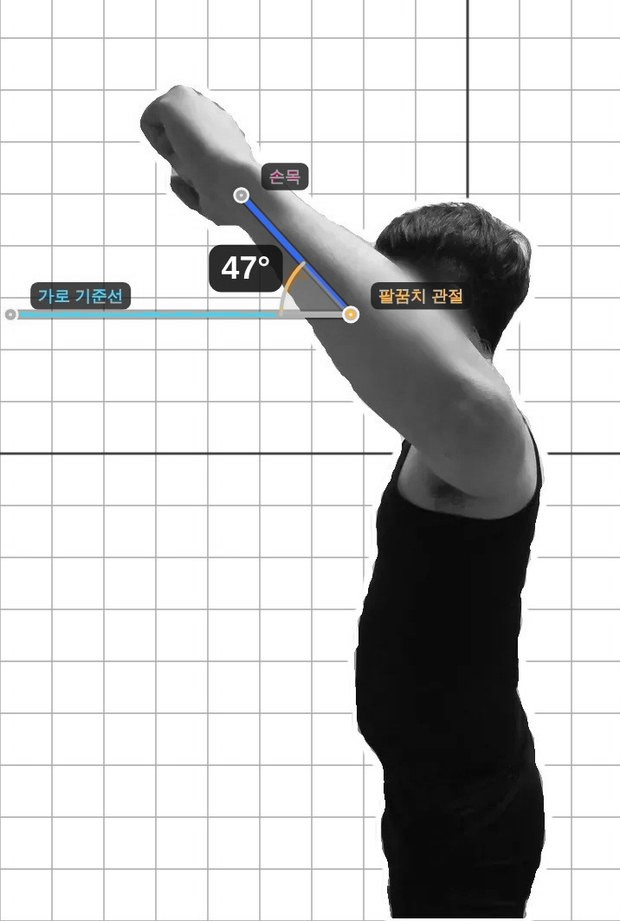
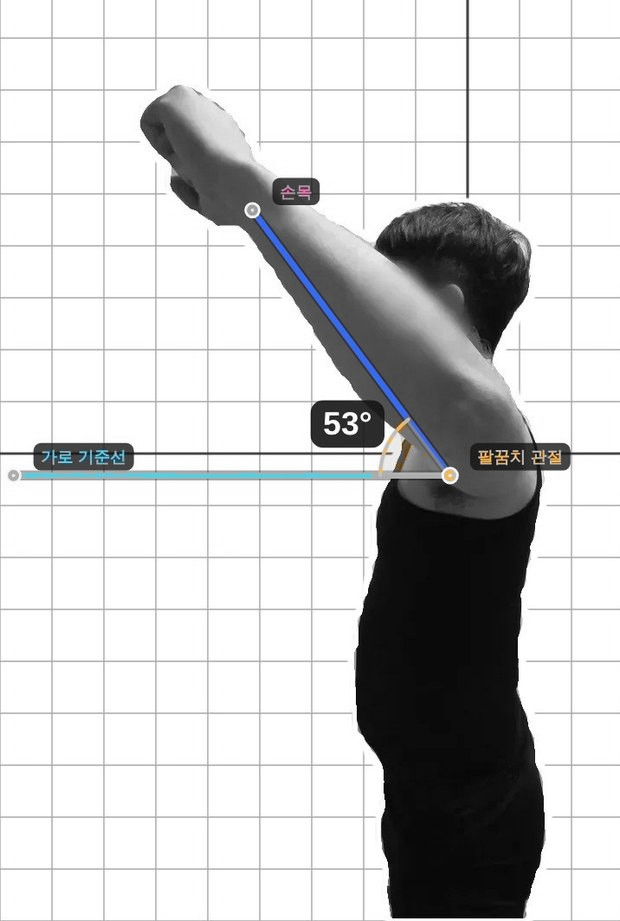
v220 인식 규칙 변경: 어깨 외·내회전(팔꿈치·손목), 고관절 외·내회전(윤곽으로 든 다리 찾기), 발목 배측·저측(비골·발바닥·발끝) · 측정가이드 사진 갱신
Claude-Session: https://claude.ai/code/session_01SyvR6sAvATGj34E46qdu2f

Changed region(s): [[0.0, 0.152, 0.9194, 0.5472]]

diff --git a/index.html b/index.html
@@ -8549,7 +8549,7 @@
     q.textContent = !ok ? "자동 인식 실패 · 두 점을 직접 맞춰주세요" : lv === "good" ? "✓ 자동 인식 정확도 높음 (" + Math.round(romS.q * 100) + "%) · 점 위치만 확인하세요" : lv === "mid" ? "자동 인식 정확도 보통 (" + Math.round(romS.q * 100) + "%) · 점 위치를 확인해 주세요" : "관절이 가려져 정확도 낮음 (" + Math.round(romS.q * 100) + "%) · 점을 직접 맞춰주세요";
     if(ok && romS.roll != null && Math.abs(romS.roll) >= 0.3) q.textContent += " · 폰 기울기 " + romS.roll.toFixed(1) + "° 자동 보정";
     if(romS.img && !romS.cut && !romS.maskP) romS.maskP = romMakeCut();
-    else if(romS.mask && ok && romJoint().k !== "scol"){ try{ romRefine(romS.mask); }catch(e){} romDraw(); }
+    else if(romS.mask && (ok || romLimbJoint()) && romJoint().k !== "scol"){ try{ romRefine(romS.mask); }catch(e){ console.warn("[refine]", e); } romDraw(); }
     if(msg) toast(msg);
   }
   $("btnRomAuto").addEventListener("click", romAuto);
@@ -9147,15 +9147,22 @@
       romS.mask = good ? m : null;
       try{ romS.cut = romCutBuild(img, m, romS.L); }catch(e){ console.warn("[cut]", e); romS.cut = null; }
       romS.cutDone = true;
-      if(good && romS.autoPts && romJoint().k !== "scol"){ try{ romRefine(m); }catch(e){ console.warn("[refine]", e); } }
+      if(good && (romS.autoPts || (romLimbJoint() && !romS.touched)) && romJoint().k !== "scol"){ try{ romRefine(m); }catch(e){ console.warn("[refine]", e); } }
       if(romS.pts) romDraw();
       return m;
     }).catch(function(){ romS.cutDone = true; return null; });
   }
   /* ===== v88 자동 측정점 정밀 보정 (인물 윤곽 이용) =====
      허리: 장골능·등 최고점을 실제 등 윤곽 위로 / 목: 목 앞·뒤 윤곽의 정중앙 / 정수리: 머리 윤곽 끝 / 손가락 끝: 손 윤곽 끝 */
+  function romLimbJoint(){ var J = romJoint(), mv = romMove(); return !!mv && ((J.k === "hip" && (mv.k === "er" || mv.k === "ir")) || J.k === "ankle"); }   // v220 윤곽으로 찾는 항목
   function romRefine(m){
-    var P = romS.pts, L = romS.L, W = romS.w, H = romS.h; if(!P || !L) return;
+    var P = romS.pts, L = romS.L, W = romS.w, H = romS.h; if(!P) return;
+    if(!L){   // v220 관절 인식이 실패해도 고관절 회전·발목은 윤곽만으로
+      if(!romLimbJoint()) return;
+      var lf0 = romLimbFix(m, romPts(), null, rom.side);
+      if(lf0){ lf0.forEach(function(q, i){ if(q) P[i] = q; }); if(P.length > 2 && !romIsLm(romPts()[2]) && !romS.refCustom) P[2] = romSynthA(romPts()[2], P[0], P[1], null, W, H, romS.roll); romS.autoPts = true; romS.autoOk = true; }
+      return;
+    }
     var pn = romPts(), side = rom.side;
     var inside = function(p){ if(p.x < 0 || p.y < 0 || p.x >= W || p.y >= H) return false; return m.data[Math.min(m.h - 1, Math.floor(p.y * m.h / H)) * m.w + Math.min(m.w - 1, Math.floor(p.x * m.w / W))] > 0.45; };
     var step = Math.max(W, H) / 400;
@@ -9242,8 +9249,122 @@
       var wr = romGet("wrist", L, side), fg = romGet("finger", L, side);
       if(wr && fg){ var u2 = nrm({ x: fg.x - wr.x, y: fg.y - wr.y }), tip = edge(fg, u2, body * 0.35); if(tip) setPt(1, tip); }
     }
+    // v220 관리자 피드백(정선미 1차) 반영: 누워서 찍는 고관절 회전·발목, 팔꿈치 90° 어깨 회전은 관절 인식이 자주 엉뚱한 곳을 잡음 → 사람 윤곽으로 다시 찾기
+    var lf = romLimbFix(m, pn, L, side);
+    if(lf) lf.forEach(function(q, i){ if(q) setPt(i, q); });
     if(changed && romS.autoPts) romLearnAdj(moved);   // v203 윤곽으로 새로 놓인 점에도 학습 보정
     if(changed && pn.length > 2 && !romIsLm(pn[2]) && !romS.refCustom) P[2] = romSynthA(pn[2], P[0], P[1], L, W, H, romS.roll);   // v190 거북목(점 2개)은 기준점 없음
+  }
+  /* ===== v220 윤곽 기반 측정점 (관리자 기준) =====
+     ① 고관절 외·내회전(엎드려 무릎 90°): 위로 든 아래다리를 윤곽에서 직접 찾음 (좌·우 다리를 헷갈리지 않게)
+        - 발목 = 발과 다리가 이어지는 곳(아래다리에서 가장 가는 곳)의 중앙 · 무릎 = 아래다리 축을 따라 내려간 끝(슬개골 정중앙)
+     ② 발목 배측·저측굴곡(누워서 옆에서): 다리 윤곽을 발끝 쪽부터 따라감
+        - 비골 = 무릎(다리 윗선의 가장 높은 곳)에서 발 쪽으로 조금 · 다리 뒤쪽(아래쪽)
+        - 발바닥 = 비골 → 외측 복사뼈 후면 직선을 발 쪽으로 늘려 발바닥 윤곽과 만나는 곳
+        - 발끝 = 발바닥을 따라 새끼발가락 앞 MTP 관절 끝
+     ③ 어깨 외·내회전: 팔꿈치 = 아래팔 축을 따라 몸 쪽 끝(팔꿈치)까지 · 손목 = 아래팔과 손바닥 사이 */
+  function romLimbFix(m, pn, L, side){
+    var J = romJoint(), mv = romMove(); if(!m || !mv) return null;
+    var MW = m.w, MH = m.h, W = romS.w, H = romS.h, sx = W / MW, sy = H / MH;
+    var at = function(x, y){ x = Math.round(x); y = Math.round(y); return x >= 0 && y >= 0 && x < MW && y < MH && m.data[y * MW + x] > 0.45; };
+    var runs = function(y){ var out = [], x = 0; while(x < MW){ if(at(x, y)){ var a = x; while(x < MW && at(x, y)) x++; out.push({ a: a, b: x - 1, c: (a + x - 1) / 2, w: x - a }); } else x++; } return out; };
+    var cruns = function(x){ var out = [], y = 0; while(y < MH){ if(at(x, y)){ var a = y; while(y < MH && at(x, y)) y++; out.push({ a: a, b: y - 1, c: (a + y - 1) / 2, w: y - a }); } else y++; } return out; };
+    var img = function(p){ return { x: p.x * sx, y: p.y * sy }; };
+    var march = function(p, d, maxL){ var q = null; for(var t = 0; t < maxL; t += 0.5){ var x = p.x + d.x * t, y = p.y + d.y * t; if(!at(x, y)) return q; q = { x: x, y: y }; } return q; };
+    var nrm = function(v){ var l = Math.hypot(v.x, v.y) || 1; return { x: v.x / l, y: v.y / l }; };
+    // ① 고관절 외·내회전
+    if(J.k === "hip" && (mv.k === "er" || mv.k === "ir")){
+      var top = -1; for(var y = 0; y < MH && top < 0; y++){ if(runs(y).some(function(r){ return r.w < MW * 0.25; })) top = y; }
+      if(top < 0) return null;
+      var r0 = runs(top).filter(function(r){ return r.w < MW * 0.25; })[0], rows = [], cx = r0.c, pw = r0.w;
+      for(var yy = top; yy < MH; yy++){
+        var rr = runs(yy), best = null, bd = 1e9;
+        rr.forEach(function(r){ var d = Math.abs(r.c - cx); if(r.a - 2 <= cx + pw * 0.6 && r.b + 2 >= cx - pw * 0.6 && d < bd){ bd = d; best = r; } });
+        if(!best || best.w > MW * 0.3) break;
+        rows.push({ y: yy, c: best.c, w: best.w }); cx = best.c; pw = Math.max(best.w, 4);
+      }
+      if(rows.length < MH * 0.12) return null;
+      // 아래다리 축 = 위에서 15~70% 구간 중심선 · 축을 따라 내려가며 '축에 수직인 폭'을 잼 (다리가 기울어도 정확)
+      var n = rows.length, seg = rows.slice(Math.round(n * 0.15), Math.max(Math.round(n * 0.15) + 3, Math.round(n * 0.7)));
+      var my = seg.reduce(function(t, r){ return t + r.y; }, 0) / seg.length, mc = seg.reduce(function(t, r){ return t + r.c; }, 0) / seg.length, num = 0, den = 0;
+      seg.forEach(function(r){ num += (r.y - my) * (r.c - mc); den += (r.y - my) * (r.y - my); });
+      var u = nrm({ x: den ? num / den : 0, y: 1 }), nv = { x: -u.y, y: u.x }, prof = [], c = { x: rows[0].c, y: rows[0].y };
+      for(var k = 0; k < MH * 0.75; k++){
+        var pp = k ? { x: c.x + u.x * 2, y: c.y + u.y * 2 } : c;
+        var e1 = march(pp, nv, MW * 0.3), e2 = march(pp, { x: -nv.x, y: -nv.y }, MW * 0.3);
+        if(!e1 || !e2){ if(k > 3) break; c = pp; continue; }
+        var wv = Math.hypot(e1.x - e2.x, e1.y - e2.y), mid = { x: (e1.x + e2.x) / 2, y: (e1.y + e2.y) / 2 };
+        if(prof.length > 10){ var mxw = 0; for(var z = 0; z < Math.max(1, prof.length >> 1); z++) mxw = Math.max(mxw, prof[z].w); if(wv > mxw * 2.5) break; }
+        prof.push({ p: mid, w: wv }); c = mid;
+      }
+      var m2 = prof.length; if(m2 < 12) return null;
+      var lo = Math.max(1, Math.round(m2 * 0.08)), hi2 = Math.max(lo + 1, Math.round(m2 * 0.45)), ai = lo;
+      for(var i = lo; i < Math.min(hi2, m2); i++) if(prof[i].w < prof[ai].w) ai = i;   // 발목 = 발과 다리 사이 가장 가는 곳
+      var A0 = prof[ai].p, ws = prof.slice(ai, ai + Math.max(5, Math.round(m2 / 3))).map(function(q){ return q.w; }).sort(function(a, b){ return a - b; }), cw = ws[ws.length >> 1] || 6;
+      var kEdge = march(A0, u, MH * 1.2); if(!kEdge) return null;
+      var K = { x: kEdge.x - u.x * cw * 0.3, y: kEdge.y - u.y * cw * 0.3 };   // 무릎 = 아래다리 축 끝에서 조금 안쪽 (슬개골 정중앙)
+      if(Math.hypot(K.x - A0.x, K.y - A0.y) < MH * 0.08) return null;
+      return [img(K), img(A0)];
+    }
+    // ② 발목 배측·저측굴곡
+    if(J.k === "ankle" && pn[0] === "sole"){
+      var hp = [L && L[23], L && L[24]].filter(function(q){ return q && q.v > 0.5; });
+      var colsAll = []; for(var x = 0; x < MW; x++){ if(cruns(x).length) colsAll.push(x); }
+      if(colsAll.length < MW * 0.2) return null;
+      var mx0 = colsAll[0], mx1 = colsAll[colsAll.length - 1], midX = (mx0 + mx1) / 2;
+      var dirF = hp.length ? (hp.reduce(function(t, q){ return t + q.x; }, 0) / hp.length / sx > midX ? -1 : 1) : (side === "R" ? 1 : -1);   // 발 쪽 = 고관절 반대쪽
+      var x0 = dirF < 0 ? mx0 : mx1, cols = [], cy = null, pw2 = null;
+      for(var k = 0; k < colsAll.length; k++){
+        var xx = x0 - dirF * k; if(xx < 0 || xx >= MW) break;
+        var rs = cruns(xx); if(!rs.length) break;
+        var bst = null, bd2 = 1e9;
+        rs.forEach(function(r){ var d = cy == null ? -r.w : Math.abs(r.c - cy); if(cy == null || (r.a - 2 <= cy + pw2 * 0.7 && r.b + 2 >= cy - pw2 * 0.7)){ if(d < bd2){ bd2 = d; bst = r; } } });
+        if(!bst) break;
+        if(cols.length > MW * 0.15){ var ws2 = cols.slice(-Math.round(MW * 0.08)).map(function(q){ return q.w; }).sort(function(a, b){ return a - b; }); if(bst.w > ws2[ws2.length >> 1] * 1.7) break; }   // 반대쪽 다리·몸과 겹치기 시작하면 멈춤
+        cols.push({ x: xx, a: bst.a, b: bst.b, c: bst.c, w: bst.w }); cy = bst.c; pw2 = Math.max(bst.w, 4);
+      }
+      var nc = cols.length; if(nc < MW * 0.2) return null;
+      // 발뒤꿈치~발 = 앞쪽 25% 안에서 가장 두꺼운 곳, 발목 = 그 뒤 가장 가는 곳
+      var hi = 0; for(var q1 = 0; q1 < Math.round(nc * 0.25); q1++) if(cols[q1].w > cols[hi].w) hi = q1;
+      var ak = Math.min(nc - 1, hi + 1); for(var q2 = hi + 1; q2 < Math.min(nc, hi + Math.round(nc * 0.25)); q2++) if(cols[q2].w < cols[ak].w) ak = q2;
+      // 무릎 = 발목에서 멀어지며 다리 윗선이 가장 높은 곳 (발목~끝 사이)
+      var kn = ak; for(var q3 = ak + Math.round(nc * 0.1); q3 < nc; q3++) if(cols[q3].a < cols[kn].a) kn = q3;
+      if(kn - ak < nc * 0.15) kn = Math.min(nc - 1, ak + Math.round(nc * 0.45));
+      var fi = Math.max(ak + 1, kn - Math.round((kn - ak) * 0.08)), fc = cols[fi];
+      // 비골두 후면: 무릎에서 발 쪽으로 조금 내려온 곳의 다리 뒤쪽(아래쪽) 윤곽에서 다리 두께의 20% 안쪽
+      var lax = nrm({ x: cols[ak].x - fc.x, y: cols[ak].c - fc.c }), pd = { x: -lax.y, y: lax.x }; if(pd.y < 0) pd = { x: -pd.x, y: -pd.y };
+      var fb = march({ x: fc.x, y: fc.c }, pd, fc.w * 1.5) || { x: fc.x, y: fc.b };
+      var Fib = { x: fb.x - pd.x * fc.w * 0.2, y: fb.y - pd.y * fc.w * 0.2 };
+      var ac = cols[ak], Mal = { x: ac.x, y: ac.a + ac.w * 0.72 };     // 외측 복사뼈 후면
+      var ul = nrm({ x: Mal.x - Fib.x, y: Mal.y - Fib.y });
+      var Sole = march(Mal, ul, MW); if(!Sole) return null;
+      // 발끝: 발 영역에서 발목과 가장 먼 점(발가락 끝) → 발바닥에서 그쪽으로 75% (제5 MTP), 발바닥 윤곽까지
+      var Tip = null, td = -1;
+      for(var q4 = 0; q4 <= hi + Math.round(nc * 0.06) && q4 < nc; q4++){ [cols[q4].a, cols[q4].b].forEach(function(yv){ var d = Math.hypot(cols[q4].x - ac.x, yv - ac.c); if(d > td){ td = d; Tip = { x: cols[q4].x, y: yv }; } }); }
+      if(!Tip) return null;
+      var Pm = { x: Sole.x + (Tip.x - Sole.x) * 0.75, y: Sole.y + (Tip.y - Sole.y) * 0.75 }, fd = nrm({ x: Tip.x - Sole.x, y: Tip.y - Sole.y });
+      var pn2 = { x: -fd.y, y: fd.x }; if(pn2.x * dirF + pn2.y * 0.6 < 0) pn2 = { x: -pn2.x, y: -pn2.y };   // 발바닥 쪽 = 발끝 방향·아래쪽
+      var T5 = march(Pm, pn2, MW * 0.2) || Pm;
+      return [img(Sole), img(T5), img(Fib)];
+    }
+    // ③ 어깨 외·내회전: 팔꿈치·손목
+    if(J.k === "shoulder" && (mv.k === "er" || mv.k === "ir") && L){
+      var si = side === "R" ? 1 : 0, e = L[13 + si], w = L[15 + si]; if(!e || !w) return null;
+      var E = { x: e.x / sx, y: e.y / sy }, Wr = { x: w.x / sx, y: w.y / sy }, fa = Math.hypot(E.x - Wr.x, E.y - Wr.y); if(fa < 4) return null;
+      var uf = nrm({ x: E.x - Wr.x, y: E.y - Wr.y }), out2 = [null, null];
+      var ee = march(E, uf, fa * 1.6);
+      if(ee){
+        var nv = { x: -uf.y, y: uf.x }, p1 = march(E, nv, fa), p2 = march(E, { x: -nv.x, y: -nv.y }, fa), fw = (p1 && p2) ? Math.hypot(p1.x - p2.x, p1.y - p2.y) : fa * 0.25;
+        var El = { x: ee.x - uf.x * fw * 0.4, y: ee.y - uf.y * fw * 0.4 };
+        if(Math.hypot(El.x - Wr.x, El.y - Wr.y) > fa * 0.7) out2[0] = img(El);
+      }
+      var kx = [L[17 + si], L[19 + si]].filter(function(q){ return q && q.v > 0.3; });
+      if(kx.length){ var Kn = { x: kx.reduce(function(t, q){ return t + q.x; }, 0) / kx.length / sx, y: kx.reduce(function(t, q){ return t + q.y; }, 0) / kx.length / sy }, hl = Math.hypot(Kn.x - Wr.x, Kn.y - Wr.y);
+        out2[1] = img({ x: Wr.x + uf.x * hl * 0.35, y: Wr.y + uf.y * hl * 0.35 }); }   // 손목 = 아래팔과 손바닥 사이 (손가락 쪽으로 넘어가지 않게)
+      else out2[1] = img({ x: Wr.x + uf.x * fa * 0.05, y: Wr.y + uf.y * fa * 0.05 });
+      return out2;
+    }
+    return null;
   }
   // 임의 사진 → 인물만 남긴 캔버스 (격자 배경용)
   // 저장된 기록 사진의 격자 배경: 인물 분리 + (v135) 측정점 기반 영역으로 보완 — 측정 화면(v133·v134)과 같은 방식
@@ -10524,7 +10645,7 @@
   function romGdPrep(){
     romCam.gd = null;
     var J = romJoint(), mv = romMove(); if(!mv || !ROM_GD[J.k + "|" + mv.k]) return;
-    var sd = romSd(J, mv), src = "guide/rom/" + J.k + "_" + sd + "_" + mv.k + ".jpg?v=205", im = new Image();   // v205 흑백 가이드
+    var sd = romSd(J, mv), src = "guide/rom/" + J.k + "_" + sd + "_" + mv.k + ".jpg?v=220", im = new Image();   // v205 흑백 가이드
     im.onload = function(){ if(romCam.gd && romCam.gd.src === src) romCam.gd.ok = true; };
     romCam.gd = { src: src, im: im, ok: false }; im.src = src;
   }
@@ -10786,7 +10907,7 @@
   function daysLeft(k){ var a = new Date(+k.slice(0, 4), +k.slice(4, 6) - 1, +k.slice(6, 8)), t = new Date(); t.setHours(0, 0, 0, 0); return Math.round((a - t) / 864e5); }
   function licValid(){ return !!(LIC && LIC.ok && LIC.dev === deviceId() && LIC.exp && todayKey() <= LIC.exp); }
   /* v94 Google Play(TWA)에서 실행됐는지 감지 → 앱 안 결제 안내 숨김 */
-  var APP_VER = "v219";   // v194 앱 버전 (한 곳에서 관리 · 홈 맨 아래와 각 측정 화면 안내에 표시)
+  var APP_VER = "v220";   // v194 앱 버전 (한 곳에서 관리 · 홈 맨 아래와 각 측정 화면 안내에 표시)
   var PLAY_PKG = "com.physiomaster.posture";
   (function(){ var e = $("appVer"); if(e) e.textContent = "아요바디요 " + APP_VER; document.querySelectorAll(".app-ver-note").forEach(function(x){ x.textContent = "앱 버전 " + APP_VER; }); })();
   function isPlayApp(){
@@ -12722,7 +12843,7 @@
     var G = PT_GUIDE[state.mode === "side" ? "side" : "front"];
     $("ptGuideTitle").textContent = G.title; $("ptGuideSub").textContent = G.sub;
     $("ptGuideBody").innerHTML = '<div class="pg-pose"><b>측정 자세</b> · ' + G.pose + '</div>' +
-      '<div class="pg-pics">' + G.imgs.map(function(src, i){ return '<figure><img src="' + src + '?v=205" alt="표시점 위치 예시 ' + (i + 1) + '"></figure>'; }).join("") + '</div>' +
+      '<div class="pg-pics">' + G.imgs.map(function(src, i){ return '<figure><img src="' + src + '?v=220" alt="표시점 위치 예시 ' + (i + 1) + '"></figure>'; }).join("") + '</div>' +
       '<ul class="pg-list">' + G.pts.map(function(p){ return '<li><i style="background:' + p[1] + '"></i><b>' + p[0] + '</b><span>' + p[2] + '</span></li>'; }).join("") + '</ul>' +
       '<p class="pg-tip">사진을 누르면 크게 볼 수 있어요.</p>';
     $("ptGuideBody").querySelectorAll(".pg-pics figure").forEach(function(f){ f.addEventListener("click", function(){ f.classList.toggle("big"); }); });
@@ -12801,7 +12922,7 @@
     var G = ROM_GD[J.k + "|" + mv.k]; if(!G) return;
     var sd = romSd(J, mv), lr = sd !== "C";
     if(romGdSide == null || !lr) romGdSide = lr ? sd : "C";
-    var src = "guide/rom/" + J.k + "_" + romGdSide + "_" + mv.k + ".jpg?v=205";   // v202 새 기준 실루엣 사진으로 교체
+    var src = "guide/rom/" + J.k + "_" + romGdSide + "_" + mv.k + ".jpg?v=220";   // v202 새 기준 실루엣 사진으로 교체
     $("ptGuideTitle").textContent = "측정가이드 · " + J.n + " " + mv.n;
     $("ptGuideSub").textContent = (lr ? (romGdSide === "R" ? "우측" : "좌측") + " 예시 · " : "") + "측정점 3개 · 측정선 2개";
     var pts = romPts(), nm = function(i){ return ROM_PART[pts[i]] || ROM_PTNAME[pts[i]] || ""; };

diff --git a/sw.js b/sw.js
@@ -1,7 +1,7 @@
 /* AYO체형분석 — 서비스워커
    - 화면(index.html): 네트워크 우선 → GitHub에 올린 최신 버전이 바로 반영되고, 인터넷이 끊기면 저장본으로 열림
    - 인식 모델·라이브러리(MediaPipe)·글꼴: 한 번 받으면 폰에 저장해 두고 재사용 → 두 번째부터 빠르고 오프라인에서도 동작 */
-const VERSION = "pma-v168";   // v219 척추 균형 자세 안내 · 거북목 측정가이드
+const VERSION = "pma-v169";   // v220 어깨·고관절 회전·발목 인식 규칙 (윤곽 기반)
 const SHELL = "pma-shell-" + VERSION;
 const ASSETS = "pma-assets-v1";   // 모델 파일은 버전과 무관하게 유지(약 25MB 재다운로드 방지)
 const SHELL_FILES = ["./", "./index.html", "./manifest.webmanifest",
